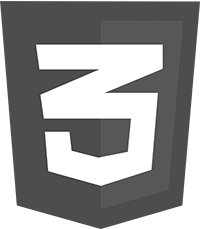
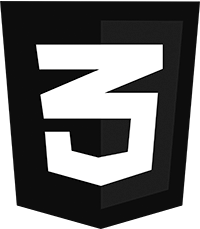
Alteração de alguns detalhes e troca de ícones do slide

diff --git a/scss/body.css b/scss/body.css
@@ -439,14 +439,14 @@
   transform: translate(-50%, 1%);
   width: 90%;
   height: 70%;
-  border-radius: 0 0 0 20px;
+  border-radius: 0 0 20px 0;
   border: 4px solid #07090D;
   background-color: transparent;
   z-index: -1;
 }
 .main .article-container .content .box-01 .c-image, .main .article-container .content .box-02 .c-image, .main .article-container .content .box-03 .c-image {
   border: 4px solid #07090D;
-  border-radius: 0 20px 0 20px;
+  border-radius: 20px 0 20px 0;
   overflow: hidden;
   background-color: #F2055C;
 }
@@ -464,7 +464,7 @@
   filter: brightness(50%);
 }
 .main .article-container .content .box-01 .c-text, .main .article-container .content .box-02 .c-text, .main .article-container .content .box-03 .c-text {
-  padding: 10px 0 0 5px;
+  padding: 15px 0 0 5px;
   color: #07090D;
 }
 .main .article-container .content .box-01 .c-text a, .main .article-container .content .box-02 .c-text a, .main .article-container .content .box-03 .c-text a {
@@ -514,7 +514,7 @@
   }
 }
 .main .section-01-container {
-  padding-block: 100px 0px;
+  padding-block: 80px 0px;
   max-width: 1100px;
   margin: 0 auto;
   overflow: hidden;
@@ -549,7 +549,7 @@
   display: flex;
   justify-content: center;
   align-items: center;
-  padding-block: 60px;
+  padding-block: 40px;
   text-align: center;
 }
 .main .section-01-container .section-01-text p {

diff --git a/scss/body.scss b/scss/body.scss
@@ -535,7 +535,7 @@
                     width: 90%;
                     height: 70%;
 
-                    border-radius: 0 0 0 20px;
+                    border-radius: 0 0 20px 0;
                     border: 4px solid $black;
 
                     background-color: transparent;
@@ -545,7 +545,7 @@
 
                 .c-image {
                     border: 4px solid $black;
-                    border-radius: 0 20px 0 20px;
+                    border-radius: 20px 0 20px 0;
                     overflow: hidden;
 
                     background-color: $pink;
@@ -567,7 +567,7 @@
                     }
                 }
                 .c-text {
-                    padding: 10px 0 0 5px;
+                    padding: 15px 0 0 5px;
                     color: $black;
 
                     a {
@@ -632,7 +632,7 @@
     }
     
     .section-01-container {
-        padding-block: 100px 0px;
+        padding-block: 80px 0px;
 
         max-width: 1100px;
         margin: 0 auto;
@@ -669,7 +669,7 @@
         }
         .section-01-text {
             @include flex-center;
-            padding-block: 60px;
+            padding-block: 40px;
            
             text-align: center;
 
